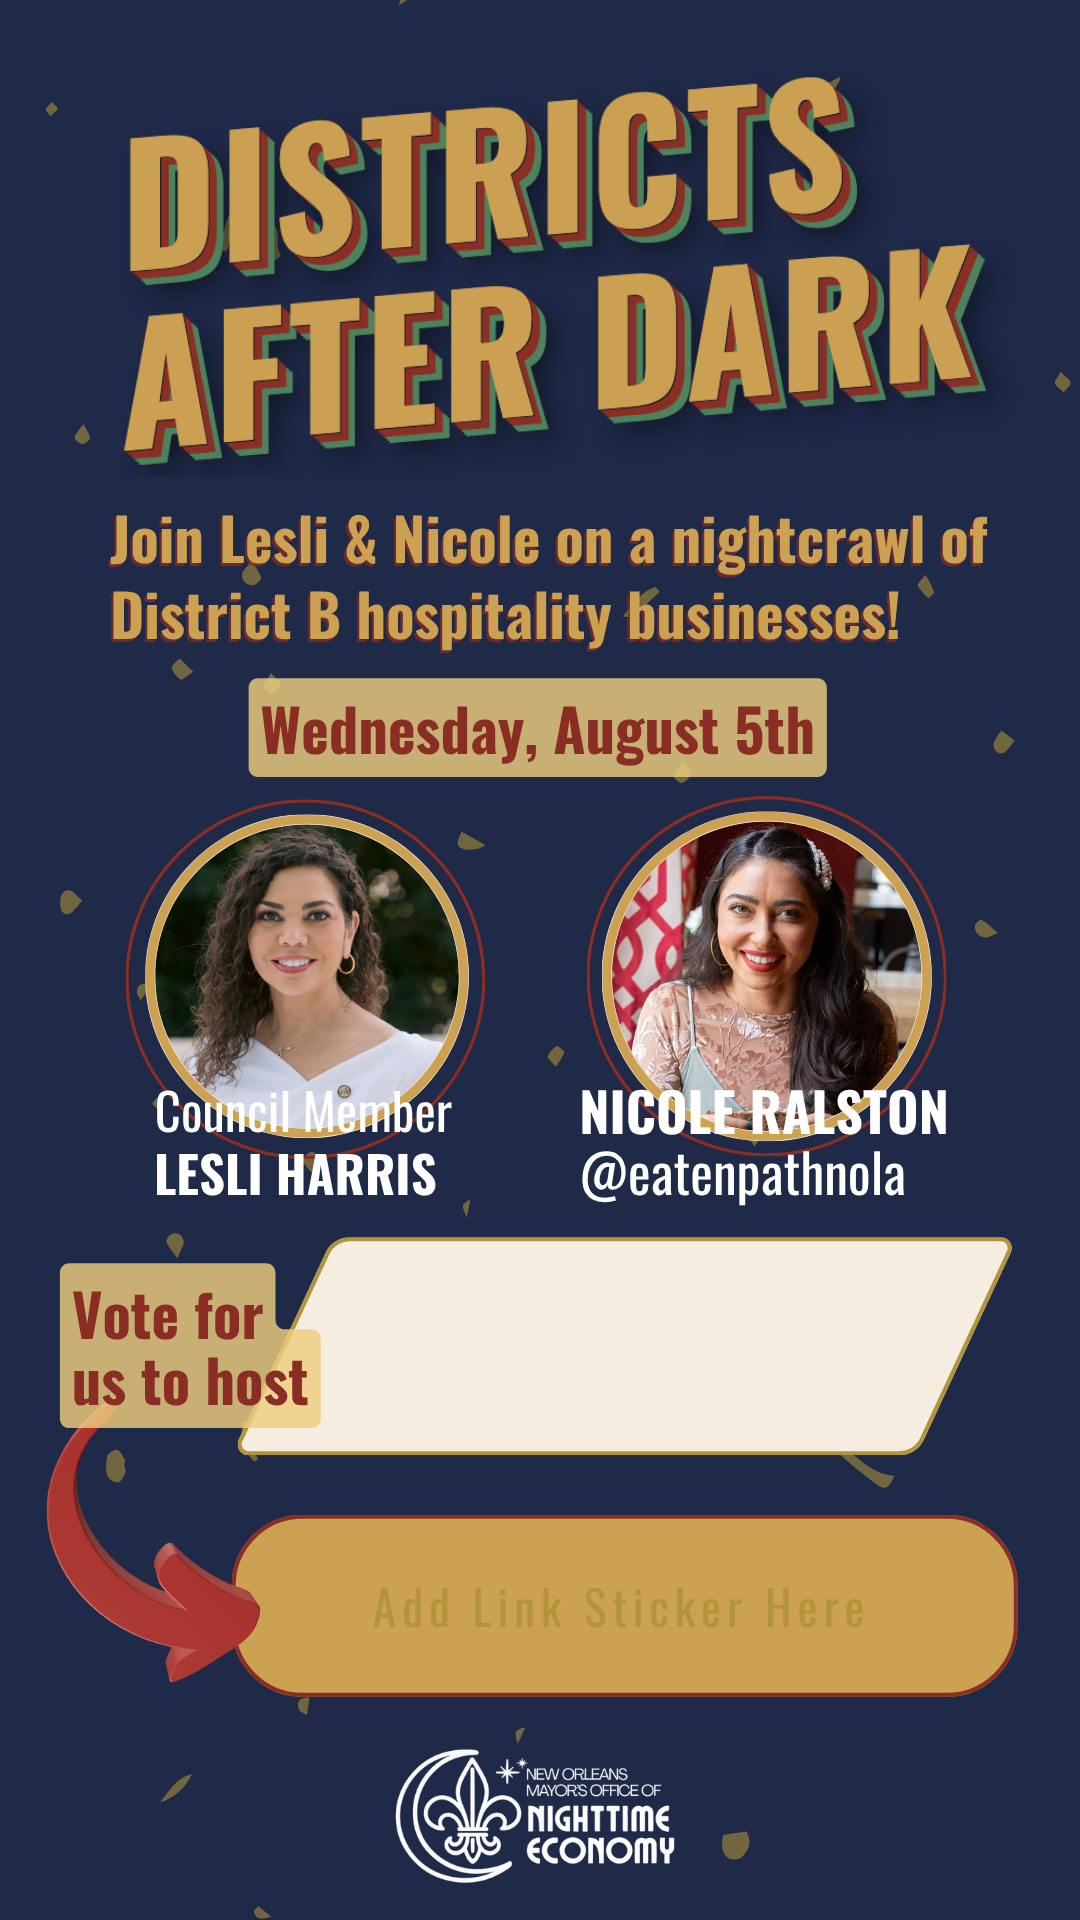
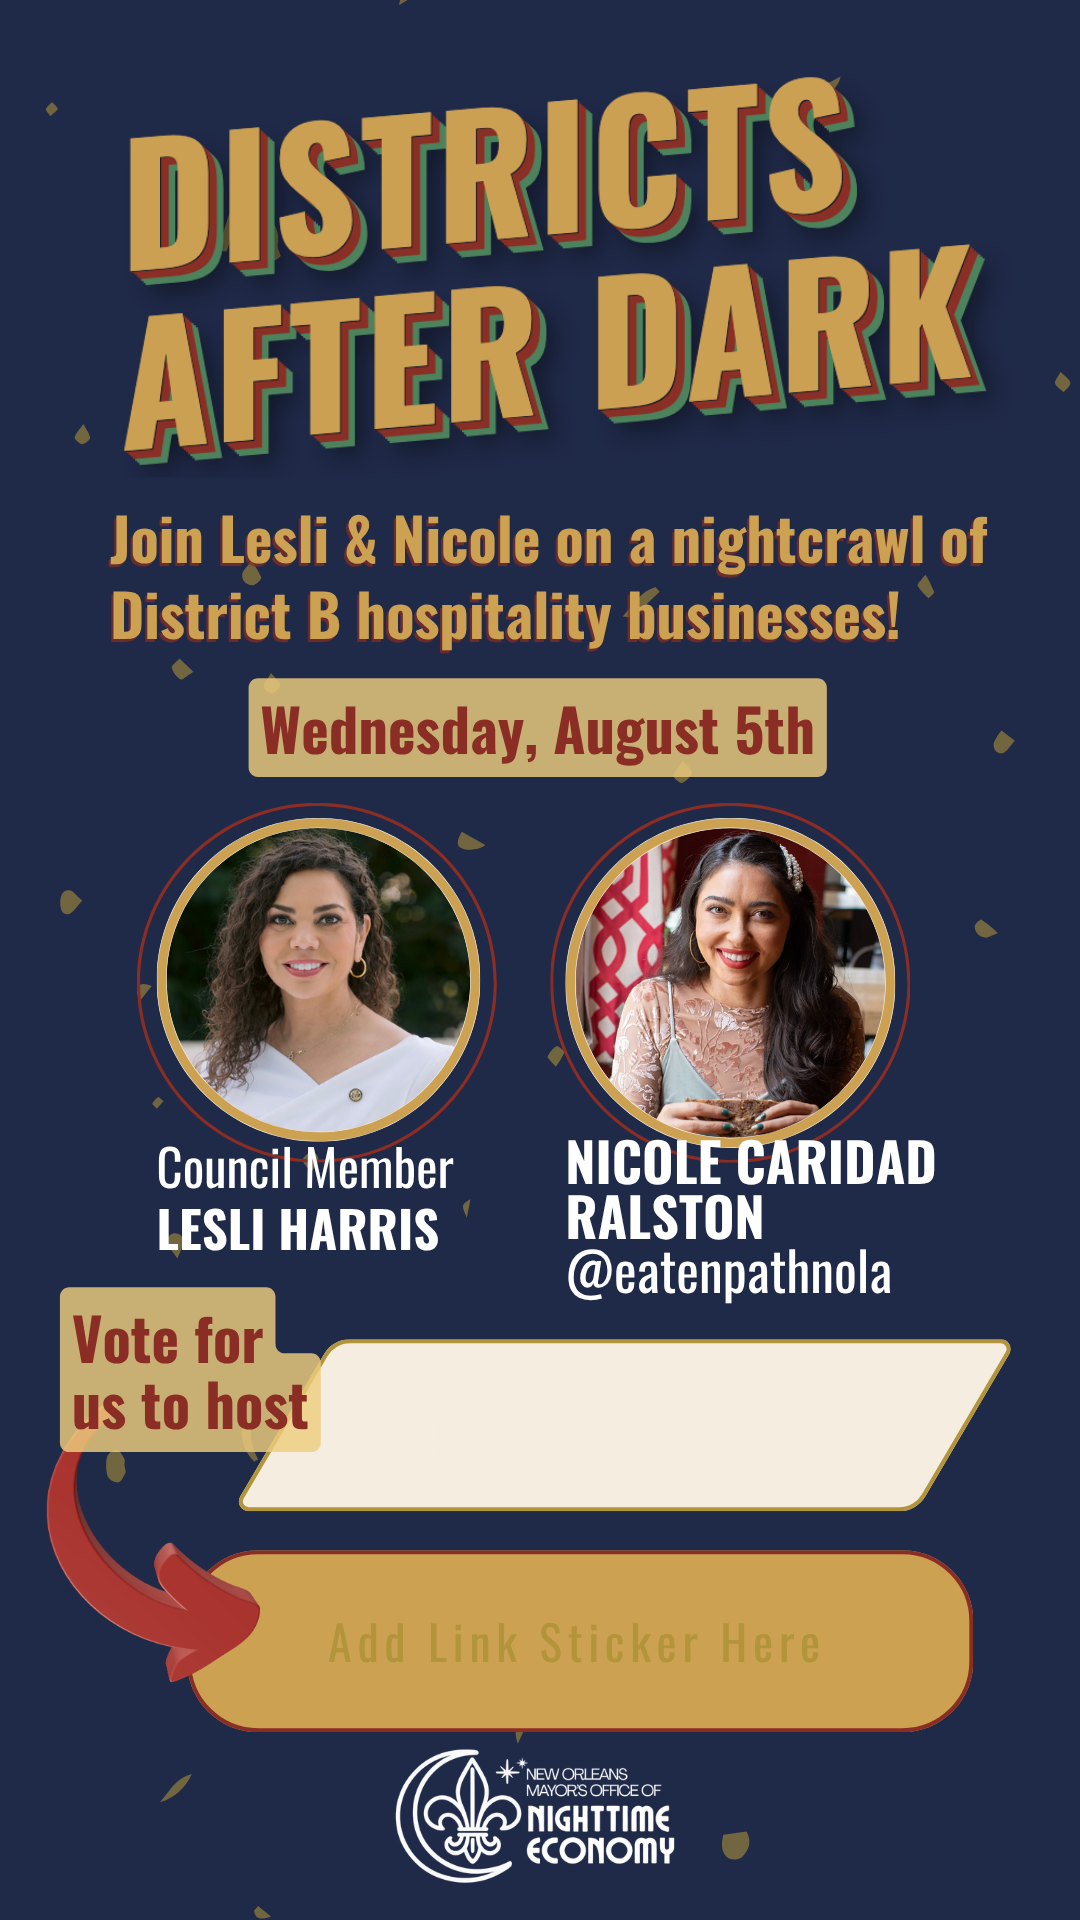
efix

Changed region(s): [[0.0611, 0.4062, 0.9472, 0.9062]]

diff --git a/js/district-map.js b/js/district-map.js
@@ -390,9 +390,18 @@ document.addEventListener("DOMContentLoaded", async () => {
             }
         }
 
-        // Determine if venues are in bounds and mock ranks if necessary
+        // Separate the polygon-boundary filter (for map visuals) from the list of
+        // venues eligible to appear in the voter explorer.
+        //
+        // inDistrictVenues  — passes the council-district polygon check; used for
+        //                     map rank badges and marker opacity.
+        // allVenuesWithCoords — all geocoded (lat/lng) venues tagged for this district,
+        //                     regardless of whether coordinates fall inside the polygon.
+        //                     Geocoding imprecision can push a venue just outside the
+        //                     boundary; that should not make it invisible to voters.
         let inDistrictVenues = [];
-        
+        let allVenuesWithCoords = [];
+
         // --- CLIENT-SIDE OVERRIDES ---
         
         venues.forEach((place) => {
@@ -405,15 +414,16 @@ document.addEventListener("DOMContentLoaded", async () => {
             }
 
             if (!place.lat || !place.lng) return;
-            // Since we override district to C for Saturn Bar, ensure it's filtered correctly
-            // if we're not on District C page (but wait, venues are already queried by districtId).
-            // Actually, because Firestore returned it for District D, we should just let it be on the map
-            // but at the right coordinate, or exclude it if it's no longer in bounds.
+
             place.inBounds = districtFeature ? isPointInDistrict(place.lat, place.lng, districtFeature) : true;
             if (place.inBounds) inDistrictVenues.push(place);
+
+            // All geocoded venues go into this list regardless of polygon outcome.
+            allVenuesWithCoords.push(place);
         });
 
-        // Live vote rankings for map Top 10 highlighting (must match leaderboard).
+        // Live vote rankings for map Top 10 highlighting (polygon-aware, matches
+        // the visual rank badges on map markers).
         const sortedByVotes = [...inDistrictVenues].sort((a, b) => {
             const diff = (b.voteCount || 0) - (a.voteCount || 0);
             if (diff !== 0) return diff;
@@ -523,8 +533,11 @@ document.addEventListener("DOMContentLoaded", async () => {
                 return;
             }
             
-            // Sort venues by voteCount descending
-            const sortedVenues = [...inDistrictVenues].sort((a, b) => (b.voteCount || 0) - (a.voteCount || 0));
+            // Sort ALL geocoded venues by voteCount for the explorer/leaderboard.
+            // Using allVenuesWithCoords (not inDistrictVenues) so venues whose
+            // coordinates fall slightly outside the council-district polygon due to
+            // geocoding imprecision still appear in the list and are votable.
+            const sortedVenues = [...allVenuesWithCoords].sort((a, b) => (b.voteCount || 0) - (a.voteCount || 0));
             
             // Map a raw venue type to one of the 5 map-legend categories
             // (mirrors the substring matching used in getVenueIcon).

diff --git a/district-a.html b/district-a.html
@@ -41,7 +41,7 @@
         }
     </script>
     <script src="council_districts.js"></script>
-    <script type="module" src="js/district-map.js?v=27"></script>
+    <script type="module" src="js/district-map.js?v=28"></script>
     <script type="module" src="js/auth.js"></script>
 </body>
 </html>

diff --git a/district-b.html b/district-b.html
@@ -41,7 +41,7 @@
         }
     </script>
     <script src="council_districts.js"></script>
-    <script type="module" src="js/district-map.js?v=27"></script>
+    <script type="module" src="js/district-map.js?v=28"></script>
     <script type="module" src="js/auth.js"></script>
 </body>
 </html>

diff --git a/district-c.html b/district-c.html
@@ -41,7 +41,7 @@
         }
     </script>
     <script src="council_districts.js"></script>
-    <script type="module" src="js/district-map.js?v=27"></script>
+    <script type="module" src="js/district-map.js?v=28"></script>
     <script type="module" src="js/auth.js"></script>
 </body>
 </html>

diff --git a/district-d.html b/district-d.html
@@ -41,7 +41,7 @@
         }
     </script>
     <script src="council_districts.js"></script>
-    <script type="module" src="js/district-map.js?v=27"></script>
+    <script type="module" src="js/district-map.js?v=28"></script>
     <script type="module" src="js/auth.js"></script>
 </body>
 </html>

diff --git a/district-e.html b/district-e.html
@@ -41,7 +41,7 @@
         }
     </script>
     <script src="council_districts.js"></script>
-    <script type="module" src="js/district-map.js?v=27"></script>
+    <script type="module" src="js/district-map.js?v=28"></script>
     <script type="module" src="js/auth.js"></script>
 </body>
 </html>
